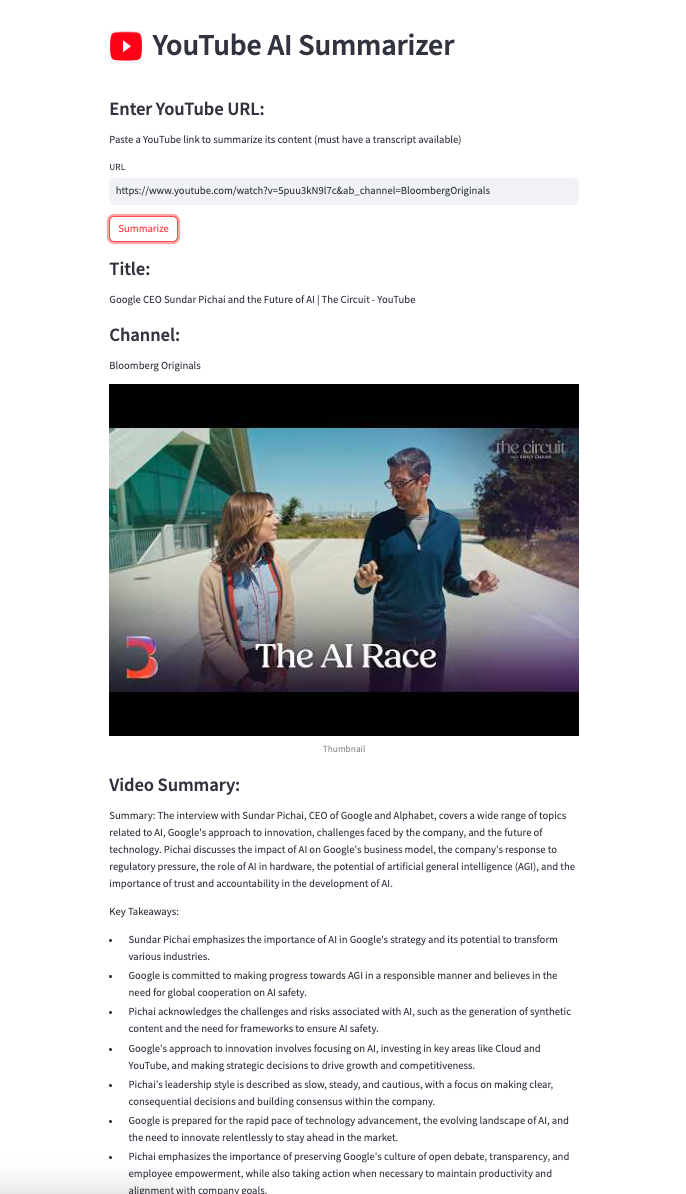
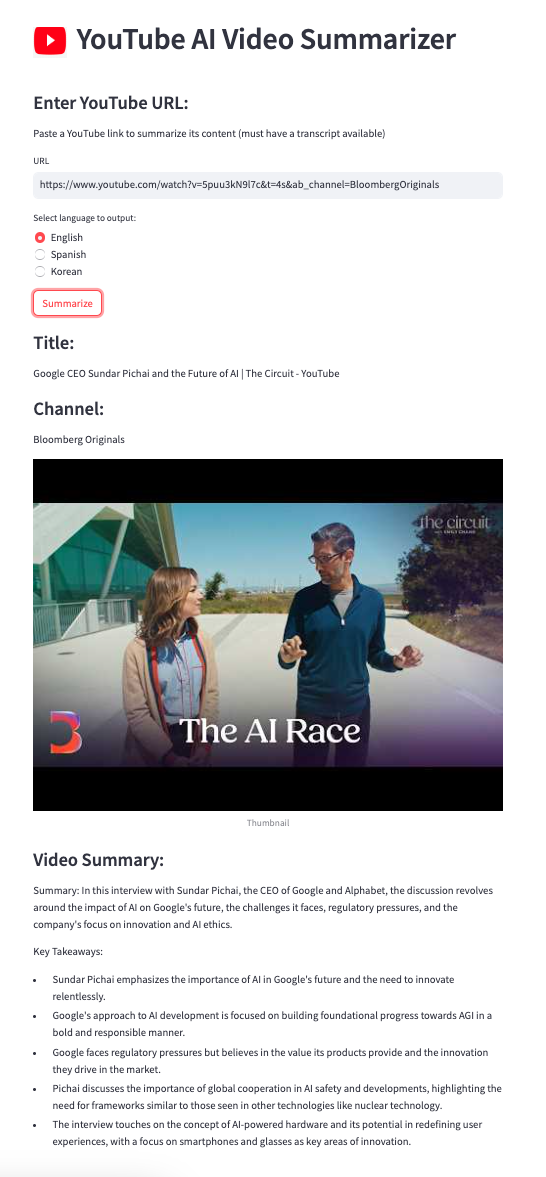
minor changes

diff --git a/app.py b/app.py
@@ -3,9 +3,7 @@ from scrape_youtube import extract_video_id, get_transcript, extract_metadata, d
 from summarize_text import summarize_text
 import os
 
-def main():
-    #st.title("YouTube Transcript Summarizer")
-       
+def main():       
     # Define the title text and image URL
     title_text = "YouTube AI Video Summarizer"
     image_url = "https://i.pinimg.com/originals/3a/36/20/3a36206f35352b4230d5fc9f17fcea92.png"  

diff --git a/summarize_text.py b/summarize_text.py
@@ -29,6 +29,7 @@ def summarize_text(text, lang='en'):
             }
         ],
         model="gpt-3.5-turbo",
+        #model="gpt-4-turbo", # better performance, slower inference
         )
     
     summary_text = response.to_dict()['choices'][0]['message']['content']
